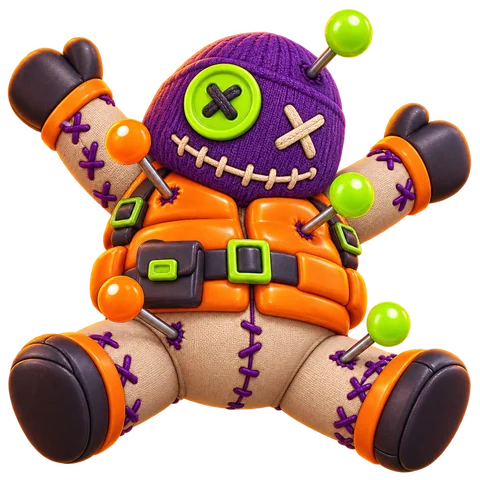
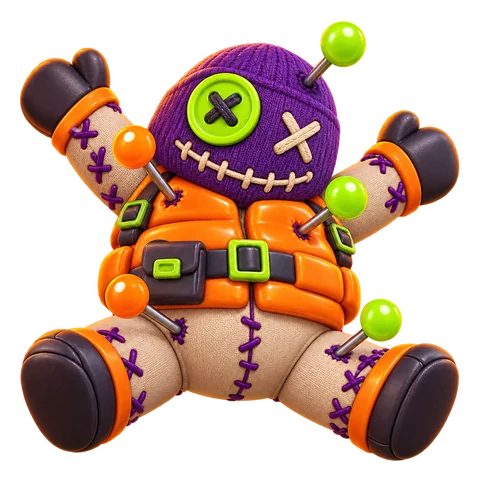
Halloween line, seven cases at the top of home: four plain, two wide and one tall (10 cells, two rows), glossy 3D heroes with air around them. A case can now wear a colour gradient behind its art: six presets, picked per case in the admin (Card on home), on plain, wide and tall cards; a full scene a

diff --git a/server/utils/mock-db.ts b/server/utils/mock-db.ts
@@ -225,13 +225,14 @@ const CS_DEFS: CaseDef[] = [
   csCase(31, 'anti-cheat', 'Anti-Cheat', 690, 'medium', 'hot', 'full'),
   csCase(32, 'elo-climb', 'ELO Climb', 1290, 'high', undefined, 'full'),
   csCase(33, 'faceit-level-10', 'FACEIT Lvl 10', 2490, 'extreme', 'new', 'full'),
-  // Halloween: glossy 3D heroes that fill the whole square, no chests (section 12)
-  csCase(34, 'trick-or-frag', 'Trick or Frag', 190, 'low', 'new'),
-  csCase(35, 'pumpkin-head', 'Pumpkin Head', 490, 'medium'),
-  csCase(36, 'dead-chat', 'Dead Chat', 890, 'medium', 'hot'),
-  csCase(37, 'baba-jaga', 'Baba Jaga', 1490, 'high'),
-  csCase(38, 'voodoo-bot', 'Voodoo Bot', 2490, 'high'),
-  csCase(39, 'strzyga', 'Strzyga', 4990, 'extreme', 'new'),
+  // Halloween: big glossy 3D heroes, no chests (section 12)
+  { ...csCase(34, 'trick-or-frag', 'Trick or Frag', 190, 'low', 'new'), tint: 'violet' },
+  { ...csCase(35, 'pumpkin-head', 'Pumpkin Head', 490, 'medium'), tint: 'teal' },
+  { ...csCase(36, 'dead-chat', 'Dead Chat', 890, 'medium', 'hot'), tint: 'violet' },
+  { ...csCase(37, 'voodoo-bot', 'Voodoo Bot', 1490, 'high'), tint: 'orange' },
+  { ...csCase(38, 'baba-jaga', 'Baba Jaga', 2490, 'high', undefined, 'wide'), tint: 'lime' },
+  { ...csCase(39, 'grim-reaper', 'Grim Reaper', 3490, 'high', undefined, 'tall'), tint: 'lime' },
+  { ...csCase(40, 'strzyga', 'Strzyga', 4990, 'extreme', 'new', 'wide'), tint: 'orange' },
 ]
 
 /**
@@ -432,12 +433,12 @@ const toSummary = ({ items: _i, odds: _o, oddsVersion: _v, kurwadrop: _k, ...s }
 /** The row that fills itself: five cases a week, none of them from the first row */
 export const AUTO_ROW = 'weekly'
 // One row per CS line: the seasonal Halloween row, FACEIT and Pro scene on top, then the weekly picks and Teams (GK's order),
-// each row closing on the 5-column grid: Halloween is six cases, its last one left to the catalog on the 5-column grid
-// (app/pages/index.vue), CS memes is eight cases with Negev wide and Zeus tall (10 cells, two rows), Teams is ten standard
-// cards (two rows), the other three are five standard cards (one row)
+// each row closing on the 5-column grid: Halloween is seven cases with two wide and one tall (10 cells, two rows), CS memes
+// is eight cases with Negev wide and Zeus tall (10 cells, two rows), Teams is ten standard cards (two rows), the other
+// three are five standard cards (one row)
 const DEFAULT_HOME_LAYOUT: HomeLayout = {
   sections: [
-    { id: 'halloween', title: 'Halloween', cases: ['trick-or-frag', 'pumpkin-head', 'dead-chat', 'baba-jaga', 'strzyga', 'voodoo-bot'] },
+    { id: 'halloween', title: 'Halloween', cases: ['trick-or-frag', 'pumpkin-head', 'dead-chat', 'baba-jaga', 'grim-reaper', 'strzyga', 'voodoo-bot'] },
     { id: 'faceit', title: 'FACEIT', cases: ['faceit-level-1', 'match-found', 'anti-cheat', 'elo-climb', 'faceit-level-10'] },
     { id: 'pro-scene', title: 'Pro scene', cases: ['ace', 'clutch', 'smurf', 'tryhard', 'major'] },
     { id: AUTO_ROW, title: 'Weekly picks', theme: 'coop' },
@@ -449,6 +450,9 @@ const DEFAULT_HOME_LAYOUT: HomeLayout = {
   cards: {
     negev: 'wide',
     zeus: 'tall',
+    'baba-jaga': 'wide',
+    strzyga: 'wide',
+    'grim-reaper': 'tall',
     ...Object.fromEntries(
       ['faceit-level-1', 'match-found', 'anti-cheat', 'elo-climb', 'faceit-level-10', 'mongolz', 'falcons', 'mouz', 'furia', 'astralis', 'g2', 'spirit', 'faze', 'vitality', 'navi'].map((s) => [s, 'full' as const]),
     ),

diff --git a/app/components/home/CaseCard.vue b/app/components/home/CaseCard.vue
@@ -10,6 +10,8 @@ const props = defineProps<{ item: CaseSummary; shape?: 'wide' | 'tall'; look?: '
 const shaped = computed(() => (props.shape ? props.item.art?.[props.shape] : undefined))
 /** A full-art card (the layout says so and the art is there): the scene fills the card; a themed row and a bento cell keep their own art */
 const full = computed(() => (!props.look && !shaped.value && props.item.card === 'full' ? props.item.art?.full : undefined))
+/** The case's colour gradient: behind the art of a plain or bento card; a scene or a themed row is its own background */
+const tint = computed(() => (!props.look && !full.value ? props.item.tint : undefined))
 const { onPointerMove } = useSpotlight()
 const { t } = useI18n()
 const session = useSessionStore()
@@ -81,10 +83,11 @@ function onArtLeave() {
   <NuxtLink
     :to="`/case/${item.slug}`"
     class="kd-case-card kd-spotlight group relative flex h-full flex-col items-center gap-2 rounded-5xl border max-sm:rounded-4xl"
-    :class="[(stock?.out || ended) && 'is-sold-out', shape && `is-${shape}`, look && `look-${look}`, full && 'is-full']"
+    :class="[(stock?.out || ended) && 'is-sold-out', shape && `is-${shape}`, look && `look-${look}`, full && 'is-full', tint && 'has-tint']"
     @pointermove="onArtPointer"
     @pointerleave="onArtLeave"
   >
+    <span v-if="tint" class="kd-case-tint" :class="`tint-${tint}`" aria-hidden="true" />
     <!-- full art: the scene behind everything, darkened at the foot where the text sits -->
     <img v-if="full" :src="full" :alt="item.name" loading="lazy" draggable="false" class="kd-case-full" />
     <span v-if="full" class="kd-case-scrim" aria-hidden="true" />
@@ -350,6 +353,46 @@ function onArtLeave() {
   .kd-case-card:hover .kd-case-risk-label {
     opacity: 1;
     transform: none;
+  }
+}
+/* --- a colour gradient behind the art: a glow where the art stands, fading into the plate at the foot, a touch
+   brighter on hover (opacity only) --- */
+.kd-case-card.has-tint {
+  isolation: isolate;
+}
+.kd-case-tint {
+  position: absolute;
+  inset: 0;
+  z-index: -1;
+  border-radius: inherit;
+  pointer-events: none;
+  opacity: 0.85;
+  background:
+    radial-gradient(80% 60% at 50% 36%, color-mix(in srgb, var(--tint) 52%, transparent), transparent 74%),
+    linear-gradient(180deg, color-mix(in srgb, var(--tint) 24%, transparent), transparent 72%);
+  transition: opacity var(--dur-base) var(--ease-out);
+}
+.tint-orange {
+  --tint: #ff5f1f;
+}
+.tint-violet {
+  --tint: #8b3dff;
+}
+.tint-lime {
+  --tint: #9be21f;
+}
+.tint-teal {
+  --tint: #1fd6b4;
+}
+.tint-red {
+  --tint: #ff2d55;
+}
+.tint-gold {
+  --tint: #f5b82e;
+}
+@media (hover: hover) {
+  .kd-case-card:hover .kd-case-tint {
+    opacity: 1;
   }
 }
 /* --- full art: the scene fills the card and drifts closer on hover --- */

diff --git a/app/pages/admin/cases/[slug].vue b/app/pages/admin/cases/[slug].vue
@@ -1,5 +1,5 @@
 <script setup lang="ts">
-import type { AdminCase, AdminCaseInput, CaseTag, HomeCardKind, RiskLevel } from '#shared/types/api'
+import type { AdminCase, AdminCaseInput, CaseTag, CaseTint, HomeCardKind, RiskLevel } from '#shared/types/api'
 
 // Admin · one case: name, price, risk, tag; limited stock; its home card; its pictures (square, full card, wide,
 // tall); odds (auto from the target RTP, or each skin's chance by hand) and contents. One draft, one Save
@@ -31,6 +31,15 @@ const TAGS: Array<{ value: CaseTag | 'none'; label: string }> = [
   { value: 'new', label: 'New' },
   { value: 'hot', label: 'Hot' },
 ]
+const TINTS: Array<{ value: CaseTint | 'none'; label: string; swatch?: string }> = [
+  { value: 'none', label: 'None' },
+  { value: 'orange', label: 'Orange', swatch: '#ff5f1f' },
+  { value: 'violet', label: 'Violet', swatch: '#8b3dff' },
+  { value: 'lime', label: 'Lime', swatch: '#9be21f' },
+  { value: 'teal', label: 'Teal', swatch: '#1fd6b4' },
+  { value: 'red', label: 'Red', swatch: '#ff2d55' },
+  { value: 'gold', label: 'Gold', swatch: '#f5b82e' },
+]
 const ODDS = [
   { value: 'auto' as const, label: 'Auto', title: 'Solved from the target RTP' },
   { value: 'manual' as const, label: 'Manual', title: 'Each chance by hand' },
@@ -49,6 +58,10 @@ const cards = computed(() => {
 const tag = computed({
   get: () => draft.value?.tag ?? 'none',
   set: (v: CaseTag | 'none') => draft.value && (draft.value.tag = v === 'none' ? null : v),
+})
+const tint = computed({
+  get: () => draft.value?.tint ?? 'none',
+  set: (v: CaseTint | 'none') => draft.value && (draft.value.tint = v === 'none' ? null : v),
 })
 const limitedOn = computed({
   get: () => !!draft.value?.limited,
@@ -119,6 +132,7 @@ async function duplicate() {
 
         <AdminPanel title="Card on home" icon="view-grid" hint="The same in every row; 2×1 and 1×2 show on desktop">
           <UiSegmented v-model="draft.card" :options="cards" size="s" block />
+          <AdminField label="Background gradient" hint="Behind the art; a full scene covers it"><UiSelect v-model="tint" :options="TINTS" /></AdminField>
         </AdminPanel>
       </div>
 

diff --git a/app/pages/index.vue b/app/pages/index.vue
@@ -62,11 +62,9 @@ const shapeOf = (c: CaseSummary, s: CaseSection) =>
 // Both stand at the row's right edge: the tall cell in the last column, the wide one just left of it; the standard
 // cards fill in from the left
 const SHAPE_CELL = { wide: 'lg:order-first lg:[grid-column:span_2/-2]', tall: 'lg:order-first lg:[grid-column:-2/-1] lg:row-span-2' } as const
-// Phones: every row is the two-column grid, no sideways swiping. A short row (one desktop row or less) with an odd
+// Phones: every row is the two-column grid, no sideways swiping. A short row (seven cases at most) with an odd
 // count drops its last card there, so no case stands alone on a line; the big catalog below still has every case
-const isShortOdd = (s: CaseSection) => s.cases.length <= 5 && s.cases.length % 2 === 1
-// The same on the 5-column grid: six cases would leave the sixth alone on a line
-const isOneOverRow = (s: CaseSection) => s.cases.length === 6
+const isShortOdd = (s: CaseSection) => s.cases.length <= 7 && s.cases.length % 2 === 1
 
 // The home layout editor (prototype, opened from the debug dock): rows and cards are edited where they stand
 const homeLayout = useHomeLayout()
@@ -152,7 +150,7 @@ const scrollToCases = () => casesEl.value?.scrollIntoView({ behavior: 'smooth', 
           <div
             v-show="!collapsed[s.id]"
             class="grid grid-cols-2 gap-3 sm:grid-cols-3 md:grid-cols-4 lg:grid-flow-dense xl:grid-cols-5"
-            :class="[isShortOdd(s) && 'max-sm:[&>*:last-child]:hidden', isOneOverRow(s) && 'xl:[&>*:last-child]:hidden']"
+            :class="isShortOdd(s) && 'max-sm:[&>*:last-child]:hidden'"
           >
             <template v-if="i < drawn">
               <HomeCaseCard

diff --git a/server/utils/mock-admin.ts b/server/utils/mock-admin.ts
@@ -12,6 +12,7 @@ import type {
   AdminUsers,
   BigWin,
   CaseTag,
+  CaseTint,
   GameRules,
   HomeCardKind,
   Item,
@@ -48,6 +49,7 @@ const clamp = (v: unknown, lo: number, hi: number, fallback = lo) => {
 }
 const RISKS: RiskLevel[] = ['low', 'medium', 'high', 'extreme']
 const CARDS: HomeCardKind[] = ['standard', 'full', 'wide', 'tall']
+const TINTS: CaseTint[] = ['orange', 'violet', 'lime', 'teal', 'red', 'gold']
 /** Known skin ids, each once */
 const skinIds = (ids: unknown) => [...new Set((Array.isArray(ids) ? ids : []).map(String))].filter((id) => findItem(id))
 
@@ -73,6 +75,7 @@ function toAdminCase(def: CaseDef): AdminCase {
     // the built case keeps the stock as opens spend it
     limited: c.limited ? { ...c.limited } : null,
     endsAt: c.endsAt ?? null,
+    tint: def.tint ?? null,
     card: getHomeLayout().layout.cards[def.slug] ?? 'standard',
     art: { ...c.art },
     animated: !!(def.rig || def.animation),
@@ -120,6 +123,8 @@ export function setAdminCase(slug: string, input: Partial<AdminCaseInput>) {
   const endsAt = input.endsAt ? Date.parse(input.endsAt) : NaN
   if (Number.isNaN(endsAt)) delete def.endsAt
   else def.endsAt = new Date(endsAt).toISOString()
+  if (input.tint && TINTS.includes(input.tint)) def.tint = input.tint
+  else if (input.tint === null) delete def.tint
   if (input.odds === 'manual') {
     def.preset = scaleTickets(picked)
     delete def.itemIds

diff --git a/shared/types/api.ts b/shared/types/api.ts
@@ -37,8 +37,13 @@ export interface CaseSummary {
   limited?: { total: number; left: number }
   /** A case limited by time: it can be opened until then, ISO */
   endsAt?: string
+  /** A colour gradient behind the art on its plain, wide or tall card; the plain plate when absent */
+  tint?: CaseTint
   createdAt: string
 }
+
+/** The gradients a case card can wear (the admin picks one per case) */
+export type CaseTint = 'orange' | 'violet' | 'lime' | 'teal' | 'red' | 'gold'
 
 /** A Spine 4.3 rig: skeleton JSON plus its atlas (the atlas names its page image, next to it). */
 export interface CaseRig {
@@ -659,6 +664,8 @@ export interface AdminCase {
   limited: { total: number; left: number } | null
   /** A case limited by time: its end, ISO */
   endsAt: string | null
+  /** The gradient on its card */
+  tint: CaseTint | null
   /** Its card on home (the same as HomeLayout.cards) */
   card: HomeCardKind
   /** The art it has; a card kind needs its art */
@@ -684,6 +691,7 @@ export interface AdminCaseInput {
   tag: CaseTag | null
   limited: { total: number; left: number } | null
   endsAt: string | null
+  tint?: CaseTint | null
   card: HomeCardKind
   odds: AdminOddsMode
   items: Array<{ id: string; tickets: number }>

diff --git a/docs/ART_PROMPTS.md b/docs/ART_PROMPTS.md
@@ -619,34 +619,40 @@ Yellow Army из Pro Scene повторял кейс NAVI, поэтому зам
 
 `rank-10` (Level 10) из Pro Scene повторял FACEIT Lvl 10, поэтому заменён на Ace. Порядок рядов на главной: FACEIT, Pro Scene, Weekly picks, Teams, CS memes, Old school.
 
-## 12. Halloween: 6 кейсов в глянцевом 3D
+## 12. Halloween: 7 кейсов в глянцевом 3D
 
-Линейка стоит первой на главной. Отдельные герои без ящиков, логотипов и текста. Палитра: тыквенный оранжевый, фиолетовый, кислотный лайм. Курица только в `trick-or-frag`, в `baba-jaga` от неё ноги у избушки.
+Линейка стоит первой на главной: 4 обычных карточки, 2 широких и 1 высокая, всего 10 клеток в двух рядах, как у CS memes. Отдельные герои без ящиков, логотипов и текста. Палитра: тыквенный оранжевый, фиолетовый, кислотный лайм. Курица только в `trick-or-frag`, в `baba-jaga` от неё ноги у избушки.
 
-### Заполнение квадрата (GK, 2026-10-30)
+### Сколько места занимает герой (GK, 2026-10-30)
 
-Герой занимает весь квадрат, углы не пустые. Заполнение считаю так: доля непрозрачных пикселей в квадрате вокруг картинки. У нас цель от 70%: было 48–70%, стало 63–86%. Как этого добиться:
+Герой крупный, но вокруг него есть воздух. Проба на весь квадрат с забитыми углами оказалась перебором, поэтому:
 
-- **В промпте:** `FILLS THE WHOLE SQUARE`, силуэт настолько же широкий, насколько высокий, до 3% от каждого края, плюс что именно стоит в каждом углу.
-- **Углы заполняет сам сюжет:** дым, лозы, конфеты, крылья, руки и ноги. В двух кейсах один приём не повторять.
-- **Кейсы с уже одобренным героем:** не новая картинка, а правка: `Redraw this exact character…`, первым образцом идёт сам герой.
-- **Конвертация:** не `scripts/case-art.py`, он оставляет поле 4% и пропускает картинки, которые касаются края. Здесь поле 1,5%.
+- **Размер:** силуэт примерно 85% ширины и 85–90% высоты. Если поза сама тянется в углы, как у `strzyga` и `voodoo-bot`, можно больше.
+- **Углы:** остаются спокойными, отдельных предметов для заполнения нет. Промпт: `calm empty space around it and in the corners`.
+- **Как правил:** `Redraw this exact character…`, первым образцом идёт сам герой.
+
+### Фон карточки
+
+Кейсу можно задать цветной градиент за картинкой: админка, кейс, панель Card on home, поле Background gradient. Варианты: Orange, Violet, Lime, Teal, Red, Gold или None. Он работает на обычной, широкой и высокой карточках. На карточке со сценой на весь блок и в тематическом ряду его не видно, там фоном служит сама сцена. Цвет лучше брать контрастный к герою: мятному призраку подходит фиолетовый, тыкве бирюзовый.
 
 ### Как генерировать
 
-Через fal: `openai/gpt-image-2.5/sunburst/edit`, `quality: medium`, `background: transparent`, 1024×1024. Образцы: первым `public/img/cases/vodka-drop.webp`, вторым одобренный кейс линейки. Что не пошло:
+Через fal: `openai/gpt-image-2.5/sunburst/edit`, `quality: medium`, `background: transparent`. Образцы: первым `public/img/cases/vodka-drop.webp`, вторым одобренный кейс линейки. Широкая картинка 1536×704, вписывается в 968×440. Высокая 640×1536, вписывается в 468×1152. Квадрат для `baba-jaga`, `grim-reaper` и `strzyga` остаётся: он нужен на телефоне, в барабане и в истории.
+
+Что не пошло:
 
 - **Ящики в стиле чужого скриншота:** GK нужен наш гладкий 3D, ящик не обязателен. Лежат в `_ARCHIVE/old_versions_2026-10-30/halloween-chests/`.
 - **Тыква с бомбой C4:** модель отклонила по своим правилам, поэтому Pumpkin Head теперь в каске.
-- **Первая подгонка героев:** много пустых углов, лежит в `_ARCHIVE/old_versions_2026-10-30/halloween-first-fit/`.
+- **Слишком мелко и слишком крупно:** `halloween-first-fit/` и `halloween-overfilled/` там же.
 
-| slug | Имя | Цена | Риск | Сцена | Чем заполнены углы |
-|---|---|---|---|---|---|
-| `trick-or-frag` | Trick or Frag | 190 | low | курица в простыне-привидении с ведром-тыквой | конфеты-гранаты, подол простыни |
-| `pumpkin-head` | Pumpkin Head | 490 | medium | тыква в фиолетовой каске и лаймовых очках | лозы, листья, маленькая тыква |
-| `dead-chat` | Dead Chat | 890 | medium | мятный призрак в наушниках орёт в микрофон | завитки эктоплазмы |
-| `baba-jaga` | Baba Jaga | 1490 | high | избушка в панике бежит на куриных ногах | лаймовый дым, лапы |
-| `strzyga` | Strzyga | 4990 | extreme | зелёная упырица из польского фольклора | крылья летучей мыши |
-| `voodoo-bot` | Voodoo Bot | 2490 | high | кукла-бот в балаклаве с булавками, поза звезды | руки и ноги |
+| slug | Имя | Цена | Риск | Карточка | Градиент | Сцена |
+|---|---|---|---|---|---|---|
+| `trick-or-frag` | Trick or Frag | 190 | low | обычная | violet | курица в простыне-привидении с ведром-тыквой, в нём конфеты-гранаты |
+| `pumpkin-head` | Pumpkin Head | 490 | medium | обычная | teal | тыква в фиолетовой каске и лаймовых очках |
+| `dead-chat` | Dead Chat | 890 | medium | обычная | violet | мятный призрак в наушниках орёт в микрофон |
+| `voodoo-bot` | Voodoo Bot | 1490 | high | обычная | orange | кукла-бот в балаклаве с булавками, поза звезды |
+| `baba-jaga` | Baba Jaga | 2490 | high | широкая | lime | избушка в панике бежит на куриных ногах, за ней тянется дым |
+| `grim-reaper` | Grim Reaper | 3490 | high | высокая | lime | пухлая смерть в фиолетовом плаще с оранжевой косой |
+| `strzyga` | Strzyga | 4990 | extreme | широкая | orange | зелёная упырица из польского фольклора с крыльями летучей мыши |
 
-На компьютере ряд главной из 6 кейсов показывает 5: шестой остался бы один на строке. Он есть в общем каталоге ниже и на телефоне, поэтому `voodoo-bot` стоит в ряду последним, а `strzyga` остаётся на виду.
+На телефоне ряд показывает 6 карточек: седьмая, `voodoo-bot`, осталась бы одна на строке. Она есть в общем каталоге ниже.
